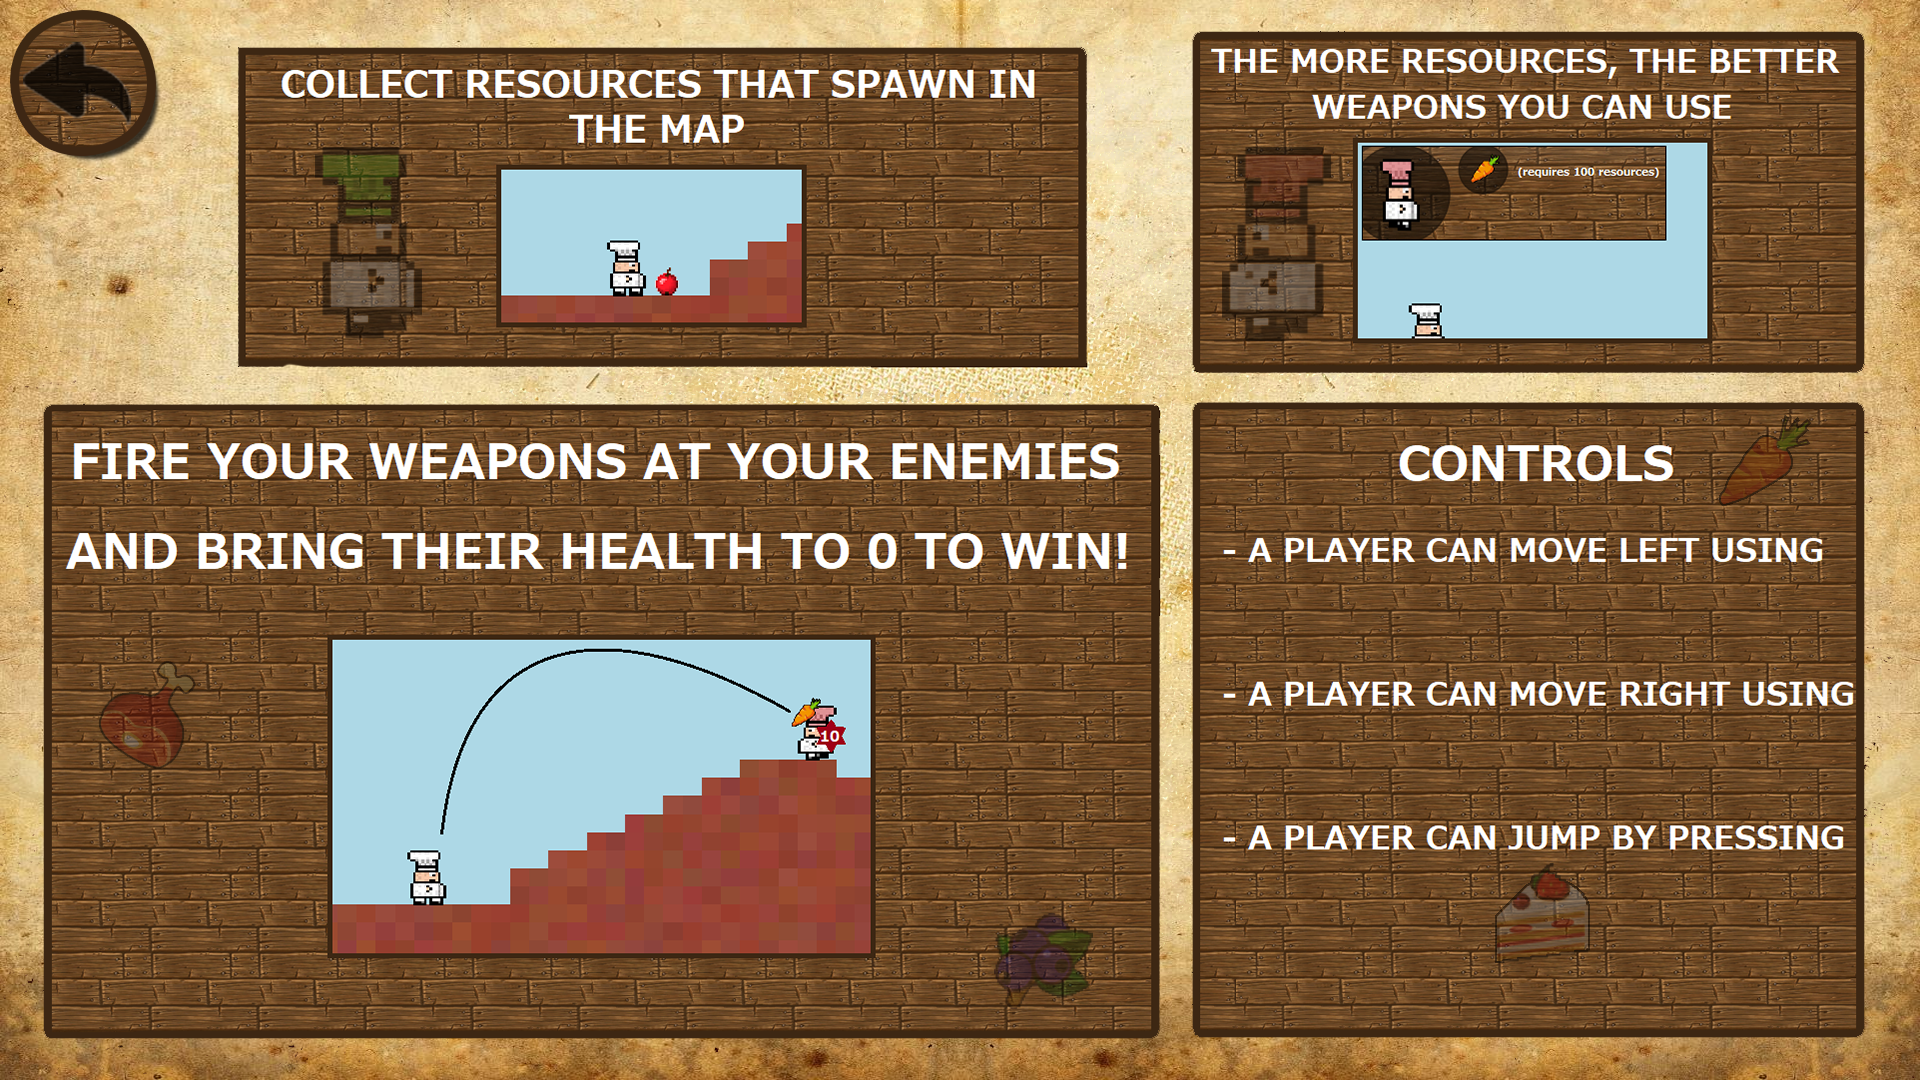
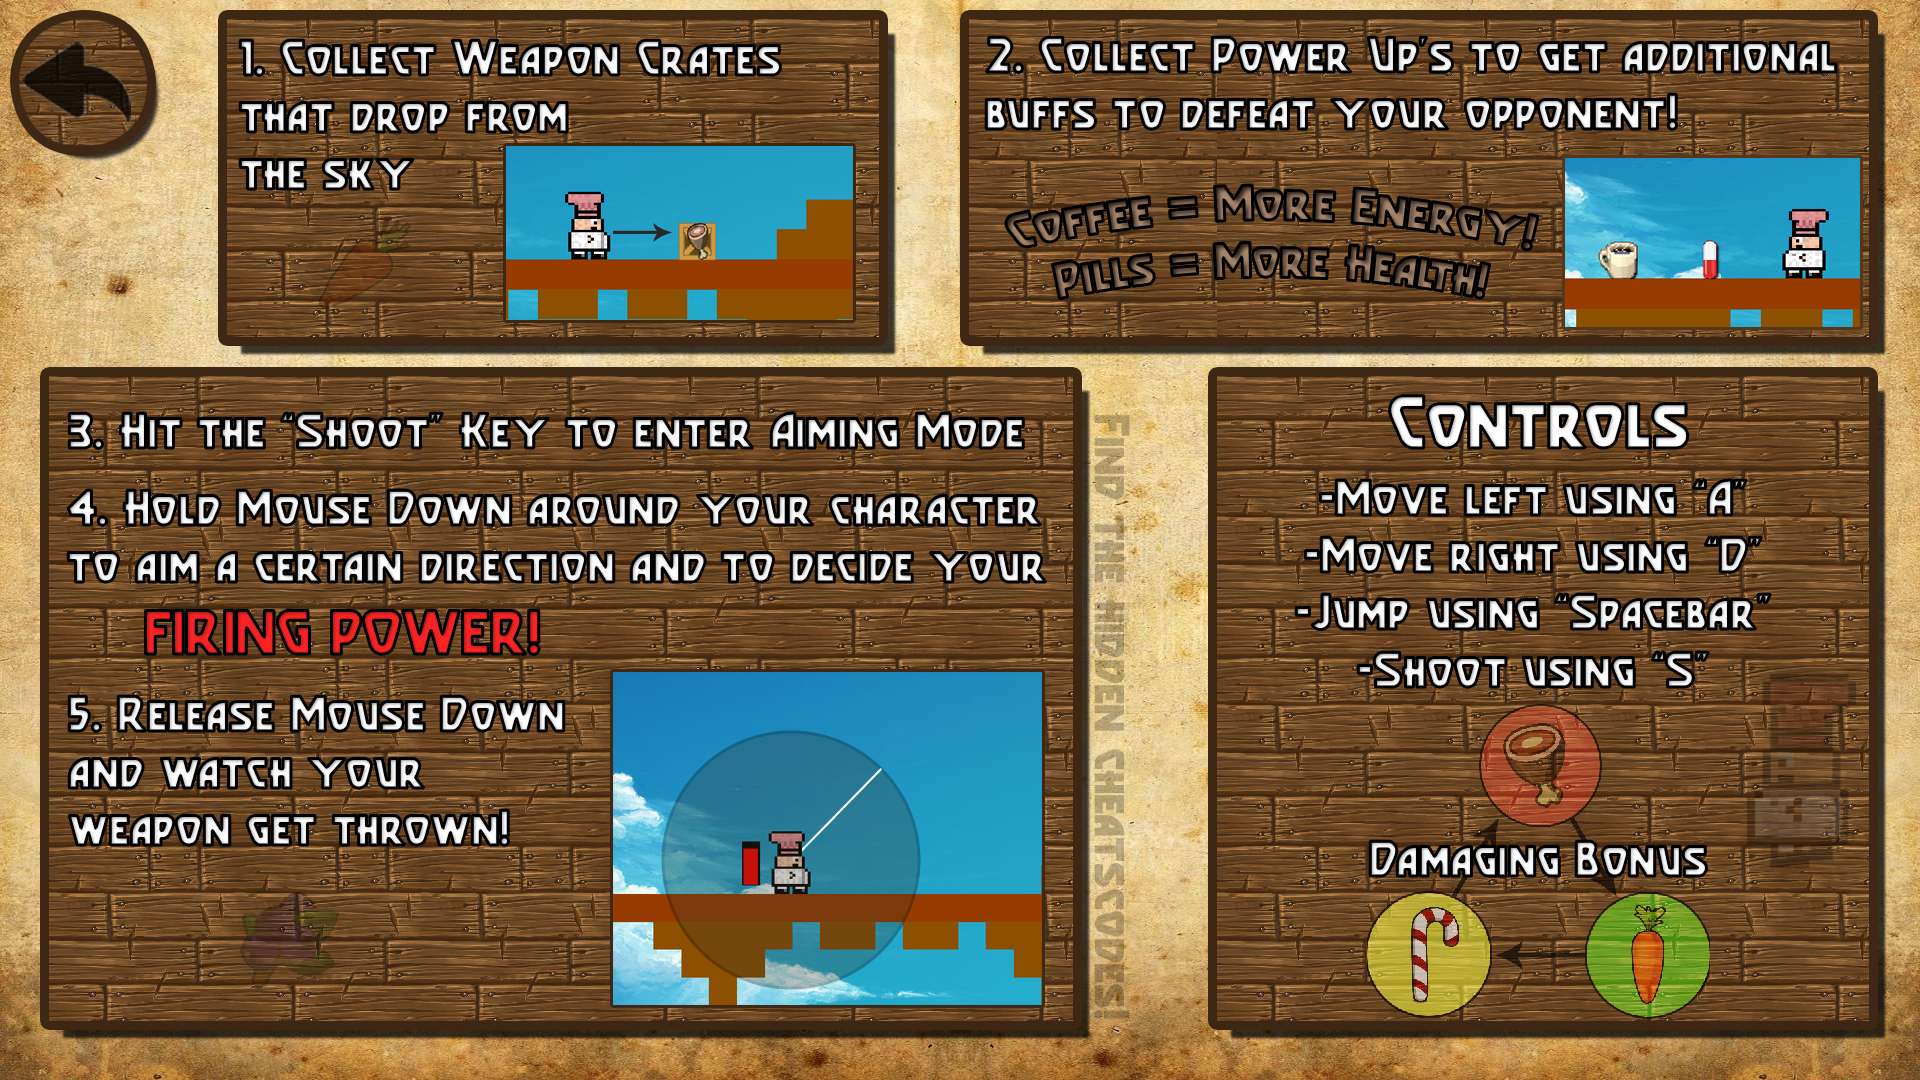
Helpscreen changes

diff --git a/FoodWars/Sources/StateMachine/HelpScreen.cpp b/FoodWars/Sources/StateMachine/HelpScreen.cpp
@@ -13,10 +13,6 @@ HelpScreen::HelpScreen(ScreenStateManager& context) : IScreen(context) {
             },
             140, 140, 12, 12,
             Colour{0,0,0,0})->addToRender(&_renderList);
-
-    createShape<ShapeText>(1040, 480, "'A'", 0, 30, 30, Colour(255, 255, 255, 0))->addToRender(&_renderList);
-    createShape<ShapeText>(1040, 600, "'D'", 0, 30, 30, Colour(255, 255, 255, 0))->addToRender(&_renderList);
-    createShape<ShapeText>(1040, 720, "'Spacebar'", 0, 10 * 20, 30, Colour(255, 255, 255, 0))->addToRender(&_renderList);
 }
 
 HelpScreen::~HelpScreen() = default;
